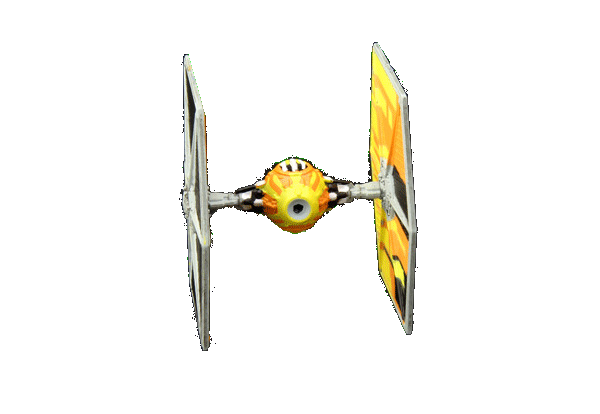
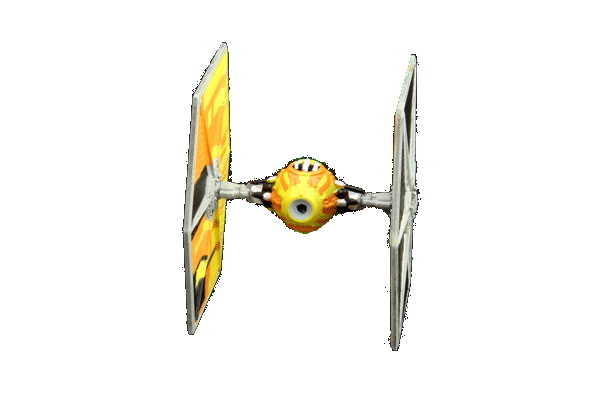
vaisseaux bouge fluide

Changed region(s): [[0.3, 0.087, 0.72, 0.8406]]

diff --git a/src/View/ViewGame.java b/src/View/ViewGame.java
@@ -8,6 +8,7 @@ import javafx.animation.*;
 import javafx.beans.binding.Bindings;
 import javafx.beans.property.DoubleProperty;
 import javafx.scene.Group;
+import javafx.scene.image.Image;
 import javafx.scene.image.ImageView;
 import javafx.scene.media.Media;
 import javafx.scene.media.MediaPlayer;
@@ -29,20 +30,25 @@ public class ViewGame {
     private Text vieJ1;
     private Text vieJ2;
     private double positionVaissJ1;
+    private Timeline timelineGoLeft = null;
 
-    public Animation getAnimTextMenuArrivee() {
-        return animTextMenuArrivee;
-    }
 
     private ImageView vaissJ1;
     private ImageView vaissJ2;
     private ImageView vaissJ1Face;
     private ImageView vaissJ2Face;
     private double positionVaissJ2;
-    private Timeline timelineGoRight;
+    private Timeline timelineGoRight = null;
     private Animation animTextMenuArrivee;
 
 
+    public Timeline getTimelineGoLeft() {
+        return timelineGoLeft;
+    }
+
+    public Animation getAnimTextMenuArrivee() {
+        return animTextMenuArrivee;
+    }
     public Timeline getTimelineGoRight() {
         return timelineGoRight;
     }
@@ -234,14 +240,26 @@ public class ViewGame {
 
         if (vaissJ2.getX()<= 1250) {
 
+            Image vaissJ2droite1 = new Image(Path.vaissJ2BackTurnRight1);
+            Image vaissJ2normal = new Image(Path.vaissJ2Back);
 
-           /* final KeyFrame goRightStart = new KeyFrame(Duration.ZERO, new KeyValue(vaissJ2.xProperty(), vaissJ2.getX()));
 
-            final KeyFrame goRightEnd = new KeyFrame(Duration.seconds(0.01), new KeyValue(vaissJ2.xProperty(), vaissJ2.getX()+20));
+            vaissJ2.setImage(vaissJ2droite1);
 
-            timelineGoRight = new Timeline(goRightStart, goRightEnd);
-            timelineGoRight.setCycleCount(Timeline.INDEFINITE);
-            timelineGoRight.playFromStart();*/
+
+            final KeyFrame goRightStart = new KeyFrame(Duration.ZERO, new KeyValue(vaissJ2.xProperty(), vaissJ2.getX()));
+            final KeyFrame goRightEnd = new KeyFrame(Duration.seconds(0.5), new KeyValue(vaissJ2.xProperty(), 1250));
+
+
+            final KeyFrame goRightStartFace = new KeyFrame(Duration.ZERO, new KeyValue(vaissJ2Face.xProperty(), vaissJ2Face.getX()));
+            final KeyFrame goRightEndFace = new KeyFrame(Duration.seconds(0.5), new KeyValue(vaissJ2Face.xProperty(), 650));
+
+         if (vaissJ2.getX()>= 1200){
+                vaissJ2.setImage(vaissJ2normal);
+            }
+
+            timelineGoRight = new Timeline(goRightStart, goRightStartFace, goRightEnd, goRightEndFace);
+            timelineGoRight.setCycleCount(1);
 
 
            /* animTextMenuArrivee = new Transition() {
@@ -262,26 +280,48 @@ public class ViewGame {
 
           //  vaissJ2.setX(newPosition);
 
-            positionVaissJ2 = vaissJ2.getX();
-            double newPosition = positionVaissJ2 + 20;
-            vaissJ2.setX(newPosition);
 
-            double positionVaissJ2Face = vaissJ2Face.getX();
+            /*double positionVaissJ2Face = vaissJ2Face.getX();
             double newPositionFace = positionVaissJ2Face - 20;
-            vaissJ2Face.setX(newPositionFace);
+            vaissJ2Face.setX(newPositionFace);*/
         }
     }
 
     public void j2goLeft() {
 
-        if (vaissJ2.getX()>= 620){
-        positionVaissJ2 = vaissJ2.getX();
-        double newPosition = positionVaissJ2 - 20;
-        vaissJ2.setX(newPosition);
+        if (vaissJ2.getX()>= 600){
 
-        double positionVaissJ2Face = vaissJ2Face.getX();
-        double newPositionFace = positionVaissJ2Face + 20;
-        vaissJ2Face.setX(newPositionFace);}
+
+            Image vaissJ2gauche1 = new Image(Path.vaissJ2BackTurnLeft1);
+            Image vaissJ2normall = new Image(Path.vaissJ2Back);
+
+
+            vaissJ2.setImage(vaissJ2gauche1);
+
+
+
+            final KeyFrame goLeftStart = new KeyFrame(Duration.ZERO, new KeyValue(vaissJ2.xProperty(), vaissJ2.getX()));
+            final KeyFrame goLeftEnd = new KeyFrame(Duration.seconds(0.5), new KeyValue(vaissJ2.xProperty(), 600));
+
+
+            final KeyFrame goLeftStartFace = new KeyFrame(Duration.ZERO, new KeyValue(vaissJ2Face.xProperty(), vaissJ2Face.getX()));
+            final KeyFrame goLeftEndFace = new KeyFrame(Duration.seconds(0.5), new KeyValue(vaissJ2Face.xProperty(), -30));
+
+            timelineGoLeft = new Timeline(goLeftStart, goLeftStartFace, goLeftEnd, goLeftEndFace);
+            timelineGoLeft.setCycleCount(1);
+
+
+            if (vaissJ2.getX() <= 620){
+
+                vaissJ2.setImage(vaissJ2normall);
+
+            }
+
+
+        }
+
+
+
 
 
     }

diff --git a/src/Controller/ControllerJeux.java b/src/Controller/ControllerJeux.java
@@ -2,10 +2,14 @@ package Controller;
 
 import Model.Menu;
 import View.ViewHandler;
+import javafx.animation.Animation;
+import javafx.animation.Timeline;
 import javafx.event.EventHandler;
 import javafx.scene.input.KeyCode;
 import javafx.scene.input.KeyEvent;
 import javafx.scene.input.MouseEvent;
+
+import static javafx.animation.Animation.Status.RUNNING;
 
 public class ControllerJeux implements EventHandler<KeyEvent> {
 
@@ -15,6 +19,7 @@ public class ControllerJeux implements EventHandler<KeyEvent> {
     private ViewHandler launcher;
     private Menu model;
     private int i = 0;
+    private boolean presseRight = false;
 
     /**
      * Constructeur du controleur relatif au menu principal
@@ -31,14 +36,31 @@ public class ControllerJeux implements EventHandler<KeyEvent> {
     @Override
     public void handle(KeyEvent keyEvent) {
 
-        if( keyEvent.getEventType().equals(KeyEvent.KEY_PRESSED) ) {
+        if (keyEvent.getEventType().equals(KeyEvent.KEY_PRESSED)) {
+
             if (keyEvent.getCode() == KeyCode.RIGHT) {
-                launcher.getGame().j2goRight();
+                presseRight = false;
+
+                if (!presseRight) {
+                    launcher.getGame().j2goRight();
+
+                 /*   if (Timeline.Status.RUNNING == launcher.getGame().getTimelineGoLeft().getStatus()){
+
+                   launcher.getGame().getTimelineGoLeft().stop();
+                   }*/
+                    launcher.getGame().getTimelineGoRight().playFromStart();
+                    presseRight = true;
+                }
             }
 
             if (keyEvent.getCode() == KeyCode.LEFT) {
-                    launcher.getGame().j2goLeft();
-                }
+                launcher.getGame().j2goLeft();
+               /* if (Timeline.Status.RUNNING == launcher.getGame().getTimelineGoRight().getStatus()){
+                launcher.getGame().getTimelineGoRight().stop();
+                }*/
+                launcher.getGame().getTimelineGoLeft().playFromStart();
+
+            }
 
             if (keyEvent.getCode() == KeyCode.D) {
                 launcher.getGame().j1goRight();
@@ -51,17 +73,15 @@ public class ControllerJeux implements EventHandler<KeyEvent> {
         }
 
 
+        if (keyEvent.getEventType().equals(KeyEvent.KEY_RELEASED)) {
+            System.out.println("keyrelease");
 
+            if (keyEvent.getCode() == KeyCode.RIGHT && presseRight) {
+                launcher.getGame().getTimelineGoRight().stop();
+                presseRight = false;
 
-
-
-
-        if( keyEvent.getEventType().equals(KeyEvent.KEY_RELEASED) ) {
-
-
-                launcher.getGame().getAnimTextMenuArrivee().stop();
-
-
+                // launcher.getGame().getAnimTextMenuArrivee().stop();
+            }
         }
     }
 }

diff --git a/src/Tools/Path.java b/src/Tools/Path.java
@@ -65,4 +65,6 @@ public class Path {
     public static String vaissJ1Face = "Asset//Images//géocroiseur-génésis_t-16-0024.png";
     public static String vaissJ2Face = "Asset//Images//intercepteur_max_r22-0000.png";
 
+    public static String vaissJ2BackTurnRight1= "Asset//Images//intercepteur_max_r22-0017.png";
+    public static String vaissJ2BackTurnLeft1 = "Asset//Images//intercepteur_max_r22-0015.png";
 }
